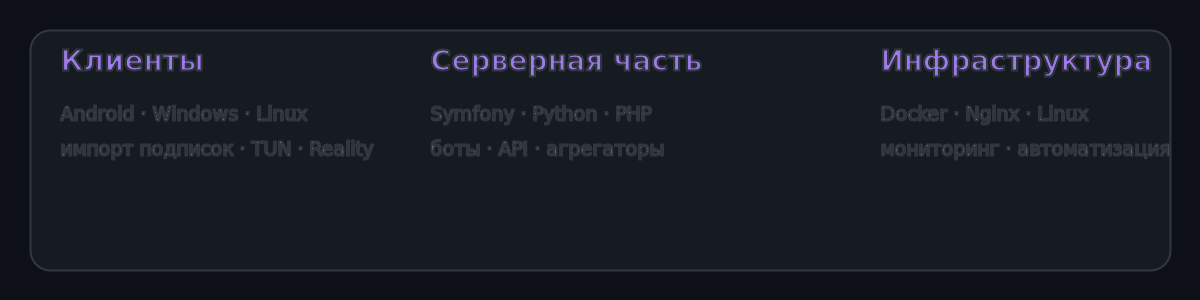
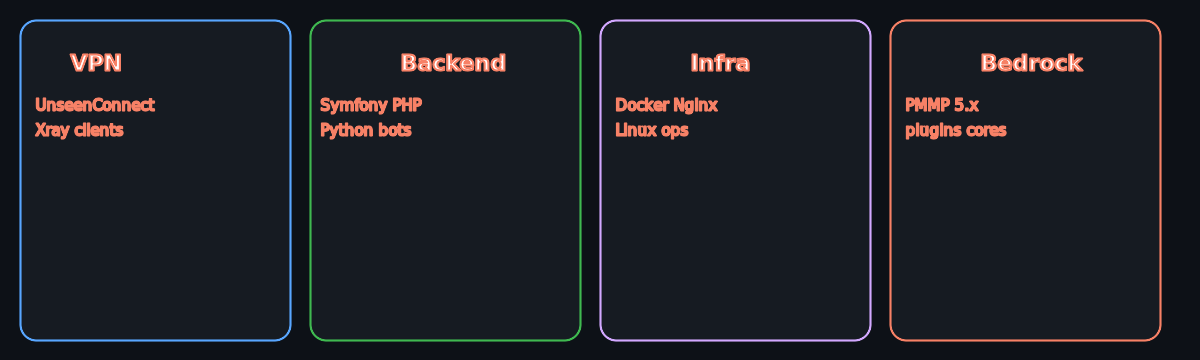
docs: mention Bedrock PMMP5 plugins and core development.

diff --git a/README.md b/README.md
@@ -6,11 +6,12 @@
 
 [![Profile views](https://komarev.com/ghpvc/?username=norachcharon&color=6e40c9&style=for-the-badge&label=VIEWS)](https://github.com/norachcharon)
 [![Org](https://img.shields.io/badge/org-UnseenConnect-0ea5e9?style=for-the-badge&logo=github)](https://github.com/UnseenConnect)
-[![Location](https://img.shields.io/badge/фокус-Xray%20VPN-9F7AEA?style=for-the-badge)](https://github.com/UnseenConnect)
+[![VPN](https://img.shields.io/badge/фокус-Xray%20VPN-9F7AEA?style=for-the-badge)](https://github.com/UnseenConnect)
+[![Bedrock](https://img.shields.io/badge/Bedrock-PMMP%205.x-f78166?style=for-the-badge)](https://github.com/norachcharon)
 
 <br/>
 
-<img src="https://readme-typing-svg.demolab.com?font=JetBrains+Mono&weight=500&size=21&duration=3000&pause=600&color=58A6FF&center=true&vCenter=true&width=820&lines=Norach+Charon;клиенты+UnseenConnect+на+Xray;подписки+%C2%B7+TUN+%C2%B7+Reality+%C2%B7+VMess;бэкенд+и+автоматизация+на+Linux" alt="Intro" />
+<img src="https://readme-typing-svg.demolab.com?font=JetBrains+Mono&weight=500&size=20&duration=3000&pause=600&color=58A6FF&center=true&vCenter=true&width=860&lines=Norach+Charon;UnseenConnect+%C2%B7+Xray+%C2%B7+Android%2FWindows%2FLinux;Minecraft+Bedrock+%C2%B7+PMMP+5;плагины+и+серверные+ядра+на+PHP" alt="Intro" />
 
 </div>
 
@@ -20,7 +21,9 @@
 
 Разработчик **Norach Charon**. Основной публичный фокус — экосистема **[UnseenConnect](https://github.com/UnseenConnect)**: нативные VPN-клиенты под **Android**, **Windows** и **Linux** на ядре **Xray**.
 
-Параллельно пишу серверную логику и утилиты для подписок, панелей и эксплуатации нод. В GitHub открыто лежат только репозитории организации UnseenConnect; остальная работа — в приватных проектах.
+Параллельно пишу серверную логику и утилиты для подписок, панелей и эксплуатации нод.
+
+Активно разрабатываю под **Minecraft: Bedrock** и **PocketMine-MP 5.x (PMMP5)**: игровые плагины, серверную логику и доработки **ядра** (протокол, производительность, игровые API). Эта часть в основном в приватных репозиториях; в открытом доступе сейчас — клиенты **UnseenConnect**.
 
 <img src="assets/pillars.png" alt="Направления" width="100%" />
 
@@ -48,6 +51,16 @@ bash-автоматизация, Debian/Ubuntu,<br/>
 </td>
 </tr>
 </table>
+
+## Minecraft Bedrock · PMMP 5
+
+| Направление | Что делаю |
+| --- | --- |
+| **Плагины** | Геймплей, мини-игры, экономика, UI/API плагинов под PMMP 5.x |
+| **Ядро** | Форки и патчи **PocketMine-MP**: Bedrock-протокол, стабильность, расширения под свои сервера |
+| **Стек** | **PHP**, события и API PMMP, профилирование, деплой `.phar` на Linux |
+
+> PMMP5 и плагины — в private; публично на профиле закреплены VPN-клиенты UnseenConnect.
 
 ## Публичные репозитории
 
@@ -79,7 +92,7 @@ bash-автоматизация, Debian/Ubuntu,<br/>
 
 **Языки и фреймворки**
 
-<img src="https://skillicons.dev/icons?i=php,symfony,python,js,ts,react,kotlin,androidstudio,docker&perline=9" alt="Languages" />
+<img src="https://skillicons.dev/icons?i=php,symfony,python,js,ts,react,kotlin,androidstudio,docker,cs&perline=10" alt="Languages" />
 
 <br/>
 
